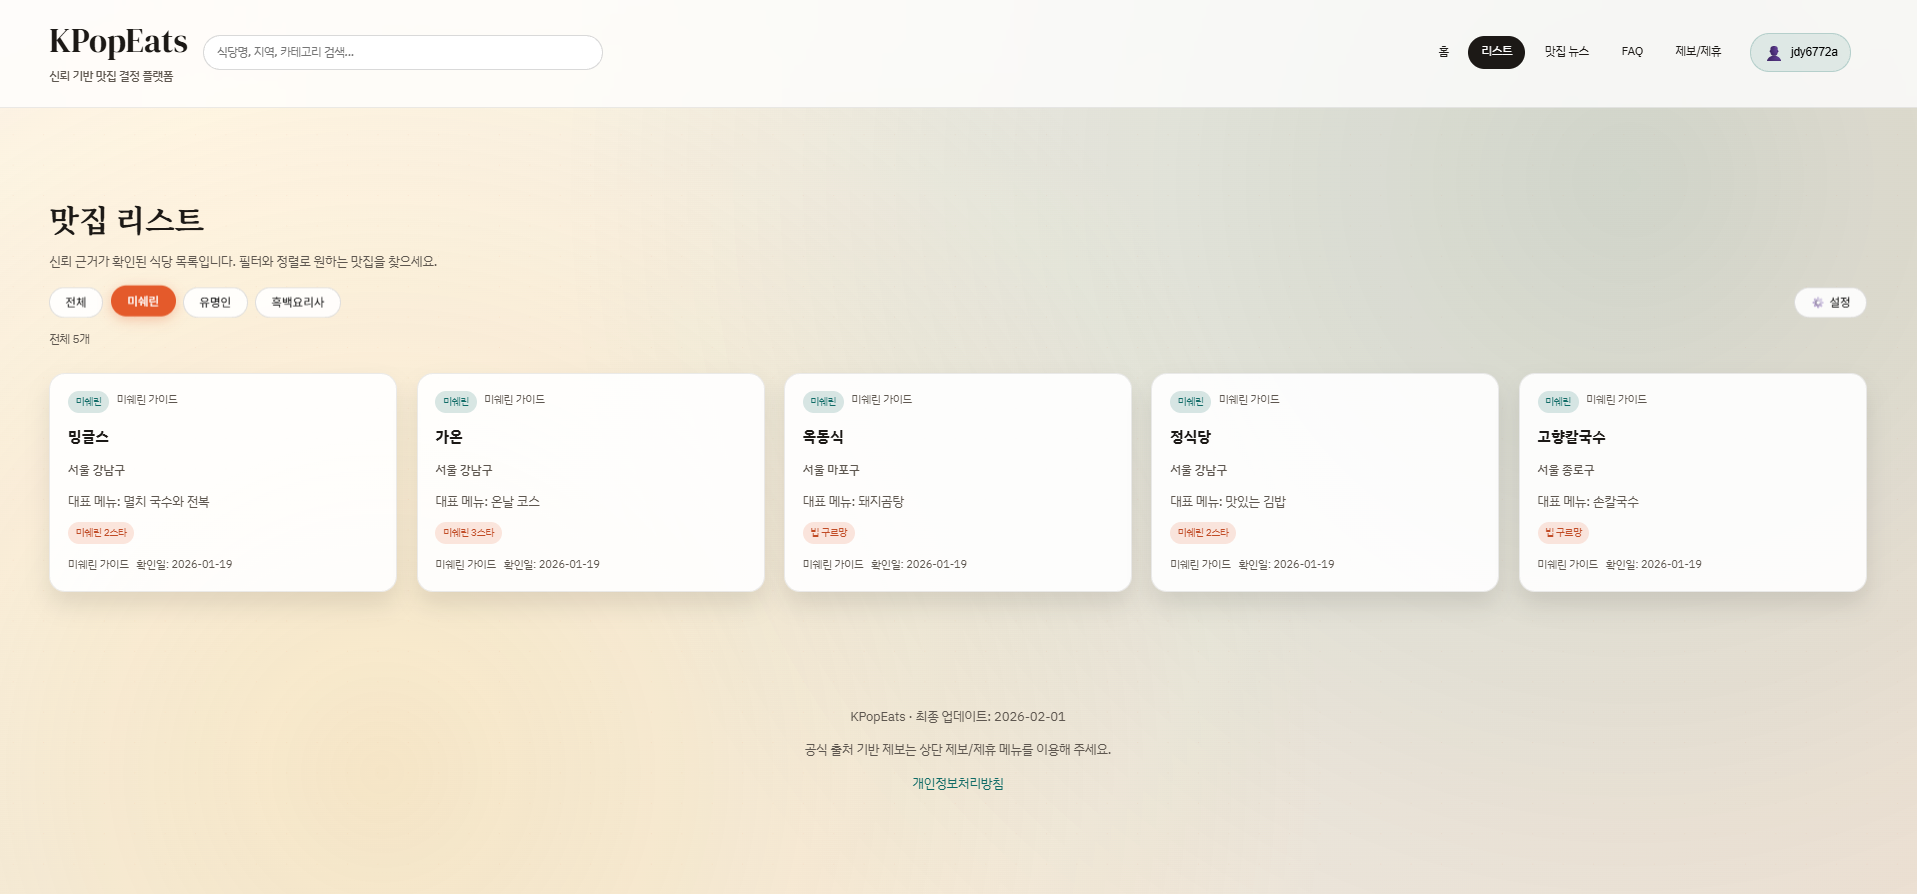
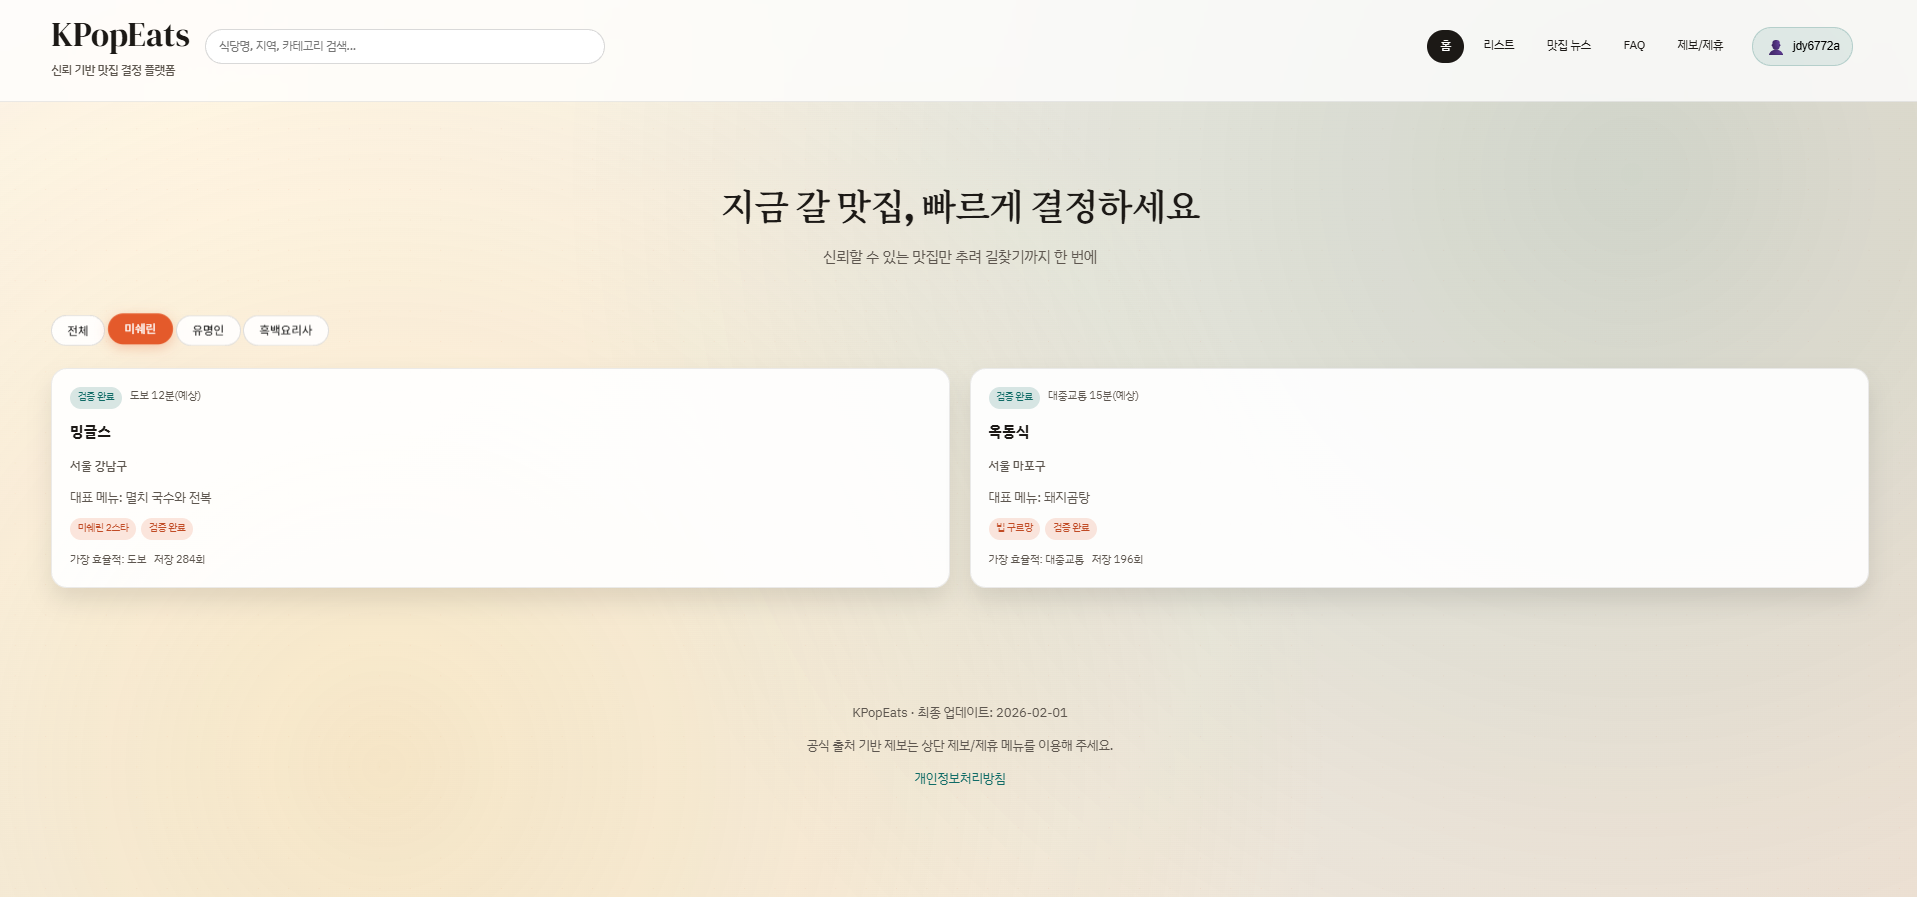
fix: 스크립트 로딩 순서 문제 해결 (defer 제거)
CRITICAL FIX: Category Filter Not Working

Problem:
- 홈 화면: 6개만 표시 (84개 기대)
- window.allRestaurants 로드 실패
- defer 속성으로 인한 스크립트 로딩 순서 문제

Root Cause:
<script defer src="data.js"></script>
<script defer src="main.js"></script>
→ defer는 병렬 다운로드하지만 실행 순서가 보장되지 않음
→ main.js가 data.js보다 먼저 실행될 수 있음

Solution:
1. defer 제거 → 순차적 동기 로딩
2. 버전 v22 → v23 (캐시 무효화)
3. 폴백 로직 추가 (nearbySpots 대비)
4. 디버깅 콘솔 추가

Expected Result:
- 홈: 미쉐린 30개, 유명인 29개, 흑백요리사 25개
- 리스트: 동일
- 콘솔: window.allRestaurants 84개 확인 가능

diff --git a/main.js b/main.js
@@ -285,10 +285,14 @@ const HomeScreen = {
     const container = document.getElementById('home-preview-list');
     if (!container) return;
 
-    // ✅ nearbySpots 대신 allRestaurants만 사용 (간소화)
+    // ✅ allRestaurants 우선, 없으면 nearbySpots 사용
     let allItems = [];
 
-    // window.allRestaurants를 직접 사용
+    // 전역 변수 확인
+    console.log('[HomeScreen DEBUG] window.allRestaurants:', window.allRestaurants?.length);
+    console.log('[HomeScreen DEBUG] window.nearbySpots:', window.nearbySpots?.length);
+
+    // allRestaurants가 로드되었으면 사용
     if (Array.isArray(window.allRestaurants) && window.allRestaurants.length > 0) {
       allItems = window.allRestaurants.map(item => ({
         ...item,
@@ -299,6 +303,11 @@ const HomeScreen = {
         badges: item.badges || [item.badgeType],
         status: item.status || (item.sourceLabel === '출처 확인 중' ? '검증 중' : '검증 완료')
       }));
+    }
+    // 폴백: nearbySpots 사용
+    else if (Array.isArray(window.nearbySpots) && window.nearbySpots.length > 0) {
+      console.warn('[HomeScreen] allRestaurants 로드 실패, nearbySpots 사용');
+      allItems = [...window.nearbySpots];
     }
 
     // 디버깅: 전체 개수 확인

diff --git a/index.html b/index.html
@@ -719,14 +719,14 @@
     <script defer src="https://js.stripe.com/v3/"></script>
 
     <!-- App Scripts - defer for better performance -->
-    <script defer src="config.js?v=22"></script>
-    <script defer src="sanitize.js?v=22"></script>
-    <script defer src="auth.js?v=22"></script>
-    <script defer src="comments.js?v=22"></script>
-    <script defer src="data.js?v=22"></script>
-    <script defer src="news-data.js?v=22"></script>
-    <script defer src="subscription.js?v=22"></script>
-    <script defer src="main.js?v=22"></script>
+    <script src="config.js?v=23"></script>
+    <script src="sanitize.js?v=23"></script>
+    <script src="auth.js?v=23"></script>
+    <script src="comments.js?v=23"></script>
+    <script src="data.js?v=23"></script>
+    <script src="news-data.js?v=23"></script>
+    <script src="subscription.js?v=23"></script>
+    <script src="main.js?v=23"></script>
     <script async src="https://pagead2.googlesyndication.com/pagead/js/adsbygoogle.js?client=ca-pub-4715957925440109" crossorigin="anonymous"></script>
 </body>
 </html>
